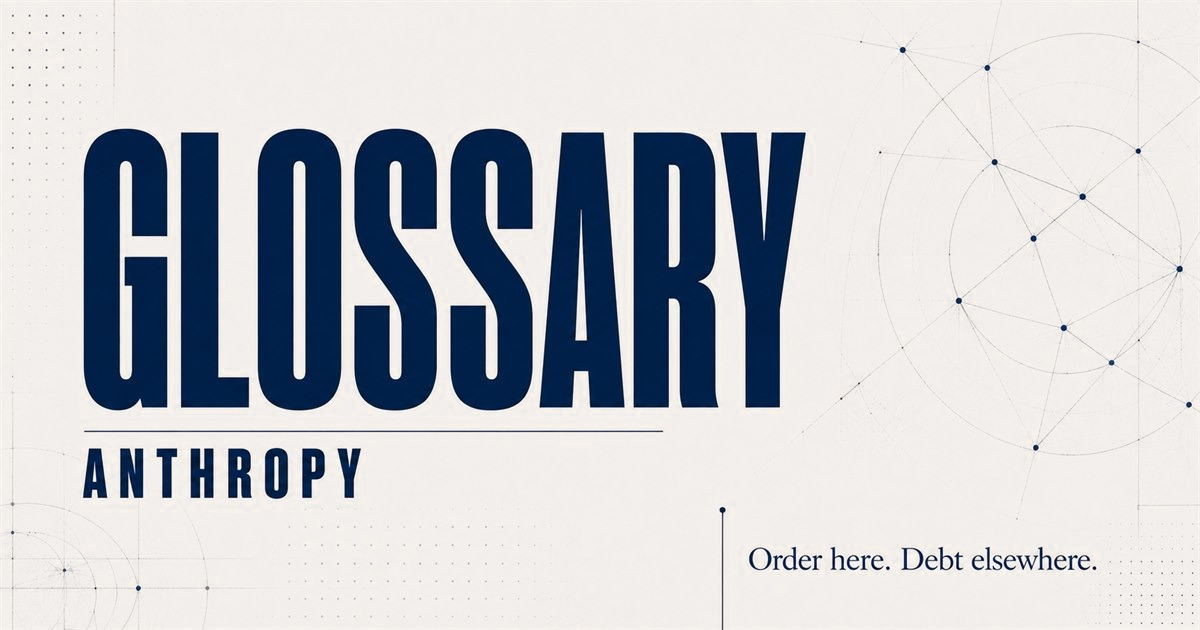
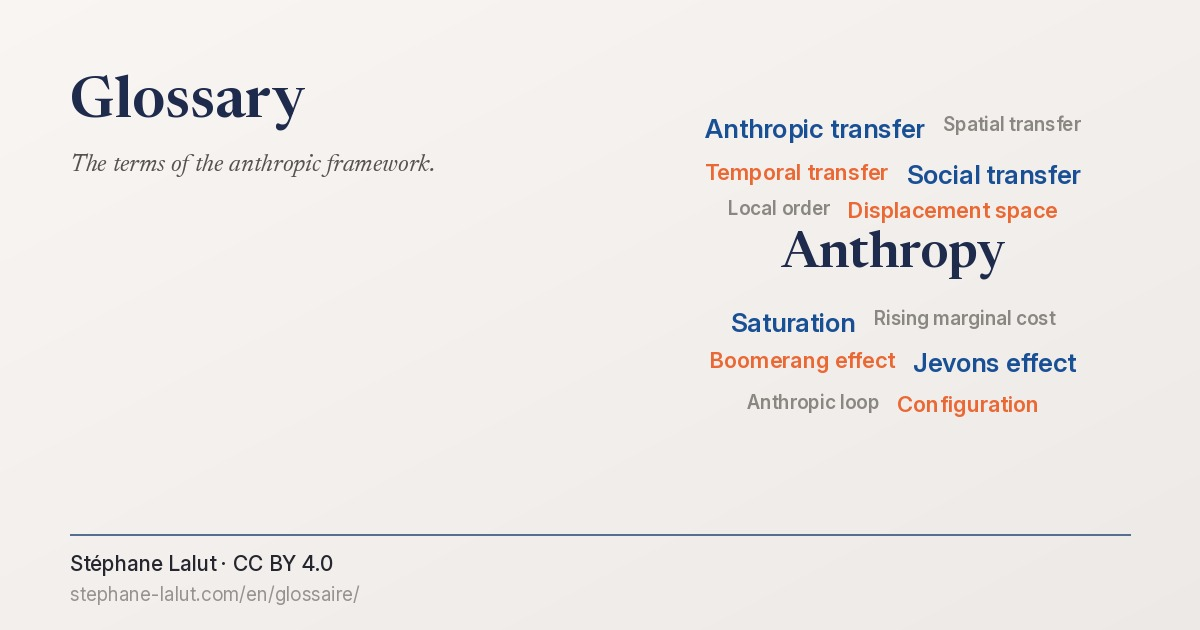
feat(ressources): une vignette pour chaque ressource, bloc réorganisé
Toute page à ressource.bloc porte une vignette (nuage de mots, jalons du
Registre, frises, tuiles), sous verrou de check-ressource-modele vu mordre.
« Guides et éclairages » se scinde en « Données et droit » et « Idées et
méthode » ; l'index passe à une seule grille. Tuiles de Publications +20 %,
couvertures de l'accueil -20 %.

Contrôles à 0 ; 1 064 vues de 320 à 2 560 px sans débordement.

diff --git a/layouts/ressources/list.html b/layouts/ressources/list.html
@@ -65,6 +65,7 @@
   {{- $mots = index $mots (cond $isEn "en" "fr") -}}
   {{ range $blocs }}
     {{- $id := .id -}}
+    {{- $bloc := . -}}
     {{- $items := slice -}}
     {{- range $entrees }}{{ if eq .r.bloc $id }}{{ $items = $items | append . }}{{ end }}{{ end -}}
     {{- if not $items }}{{ warnf "ressources : le bloc %q de %s est vide" $id $.File.Path }}{{ end -}}
@@ -172,7 +173,7 @@
       {{- range $encarts }}{{ partial "ressource-encart.html" (dict "page" .page "r" .r "isEn" $isEn) }}{{ end }}
       {{- with $dossier }}
         {{- $n := len . -}}{{- $mot := cond (lt $n (len $mots)) (index $mots $n) (string $n) -}}
-        {{- if $autres }}<p class="ressources-index__sous">{{ i18n "ressources_dossier" (dict "Count" $n "N" $mot) }}</p>{{ end }}
+        {{- if and $autres $bloc.dossier }}<p class="ressources-index__sous">{{ i18n "ressources_dossier" (dict "Count" $n "N" $mot) }}</p>{{ end }}
         <ul class="ressources-index__liste ressources-index__liste--dossier">
           {{- range . }}{{ partial "ressource-entree.html" (dict "page" .page "r" .r "fr" .fr "vignette" true) }}{{ end }}
         </ul>
@@ -185,20 +186,10 @@
       {{- end }}
       {{- with $autres }}
         {{- $n := len . -}}{{- $mot := cond (lt $n (len $mots)) (index $mots $n) (string $n) -}}
-        {{- if $dossier }}<p class="ressources-index__sous">{{ i18n "ressources_debat" (dict "Count" $n "N" ($mot | strings.FirstUpper)) }}</p>{{ end }}
-        {{- /* Une entrée dont la vignette existe (partials/ressource-entree.html) la porte ; les autres restent en liste. */ -}}
-        {{- $avec := slice -}}{{- $sans := slice -}}
-        {{- range . }}{{ $v := replace (.page.Params.og_image | default "") "og-" "vig-" 1 }}{{ if and $v (ne $v .page.Params.og_image) (fileExists (printf "static/%s" $v)) }}{{ $avec = $avec | append . }}{{ else }}{{ $sans = $sans | append . }}{{ end }}{{ end -}}
-        {{- with $avec }}
+        {{- if and $dossier $bloc.dossier }}<p class="ressources-index__sous">{{ i18n "ressources_debat" (dict "Count" $n "N" ($mot | strings.FirstUpper)) }}</p>{{ end }}
         <ul class="ressources-index__liste ressources-index__liste--dossier">
           {{- range . }}{{ partial "ressource-entree.html" (dict "page" .page "r" .r "fr" .fr "vignette" true) }}{{ end }}
         </ul>
-        {{- end }}
-        {{- with $sans }}
-        <ul class="ressources-index__liste">
-          {{- range . }}{{ partial "ressource-entree.html" (dict "page" .page "r" .r "fr" .fr "vignette" false) }}{{ end }}
-        </ul>
-        {{- end }}
       {{- end }}
     </section>
   {{ end }}

diff --git a/assets/scss/_publication-card.scss b/assets/scss/_publication-card.scss
@@ -196,16 +196,16 @@
 
 // Une entrée : petite tuile de revue, méta, titre vers l'article, chapô, thèmes, « Prolonge : », DOI.
 .pub-entree {
-  display: grid; grid-template-columns: 112px minmax(0, 1fr); gap: 0.25rem 1rem;
+  display: grid; grid-template-columns: 134px minmax(0, 1fr); gap: 0.25rem 1rem;
   padding: 0.9rem 0; border-bottom: 1px solid var(--color-rule-soft);
   scroll-margin-top: 80px; // l'en-tête est collant : une ancre #<slug> (mur presse) dégage l'entrée
 }
 .pub-entree__tuile { display: block; text-decoration: none; }
 .pub-entree .pub-thumb {
-  width: 112px; min-width: 112px; height: 75px; border-radius: 6px; padding: 6px 8px; gap: 3px;
-  .pub-thumb__label { font-size: 8.5px; letter-spacing: 0.14em; }
-  .pub-thumb__name { font-size: 14px; }
-  .pub-thumb__rule { width: 22px; }
+  width: 134px; min-width: 134px; height: 90px; border-radius: 6px; padding: 7px 9px; gap: 4px;
+  .pub-thumb__label { font-size: 10px; letter-spacing: 0.14em; }
+  .pub-thumb__name { font-size: 17px; }
+  .pub-thumb__rule { width: 26px; }
 }
 .pub-entree__corps { display: grid; gap: 0.3rem; min-width: 0; }
 .pub-entree__meta { font-family: var(--font-sans); font-size: 12px; color: var(--color-text-subtle); margin: 0; }
@@ -221,8 +221,8 @@
 // « Prolonge : » et DOI : alignés sur la colonne de texte de l'entrée (ils l'étaient sur l'ancienne tuile de 160 px).
 .pub-entree .pub-card__related, .pub-entree .pub-card__doi { margin: 0; padding: 0; }
 @media (max-width: 560px) {
-  .pub-entree { grid-template-columns: 72px minmax(0, 1fr); }
-  .pub-entree .pub-thumb { width: 72px; min-width: 72px; height: 48px; padding: 3px 4px; }
+  .pub-entree { grid-template-columns: 86px minmax(0, 1fr); }
+  .pub-entree .pub-thumb { width: 86px; min-width: 86px; height: 58px; padding: 3px 4px; }
   .pub-entree .pub-thumb .pub-thumb__label { display: none; }
   .pub-entree .pub-thumb .pub-thumb__name { font-size: 10px; }
 }

diff --git a/layouts/partials/ressource-discipline.html b/layouts/partials/ressource-discipline.html
@@ -11,11 +11,7 @@
 {{- $n := len $themes -}}
 {{- /* « thème » est masculin : la table des mots de l'index est au féminin (« une page »), d'où « Un » à part (vu le 03/10). */ -}}
 {{- $mot := cond (eq $n 1) "un" (cond (lt $n (len .mots)) (index .mots $n) (string $n)) -}}
-{{- $vig := "" -}}
-{{- with $p.Params.og_image -}}
-  {{- $v := replace . "og-" "vig-" 1 -}}
-  {{- if and (ne $v .) (fileExists (printf "static/%s" $v)) }}{{ $vig = $v }}{{ end -}}
-{{- end -}}
+{{- $vig := partial "vignette-ressource.html" $p -}}
 <aside class="ressources-index__encart{{ if not $vig }} ressources-index__encart--sans-image{{ end }}">
   {{- with $vig }}<a class="ressources-index__encart-image" href="{{ $p.RelPermalink }}" tabindex="-1" aria-hidden="true"><img src="/{{ . }}" alt="" width="720" height="378" loading="lazy"></a>{{ end }}
   <div class="ressources-index__encart-corps">

diff --git a/layouts/partials/ressource-encart.html b/layouts/partials/ressource-encart.html
@@ -3,11 +3,7 @@
        bouton (`ressource.bouton`, sinon libellé par défaut). Vignette dérivée de `og_image` comme pour les cartes. */ -}}
 {{- $p := .page -}}
 {{- $r := .r -}}
-{{- $vig := "" -}}
-{{- with $p.Params.og_image -}}
-  {{- $v := replace . "og-" "vig-" 1 -}}
-  {{- if and (ne $v .) (fileExists (printf "static/%s" $v)) }}{{ $vig = $v }}{{ end -}}
-{{- end -}}
+{{- $vig := partial "vignette-ressource.html" $p -}}
 <aside class="ressources-index__encart{{ if not $vig }} ressources-index__encart--sans-image{{ end }}">
   {{- with $vig }}<a class="ressources-index__encart-image" href="{{ $p.RelPermalink }}" tabindex="-1" aria-hidden="true"><img src="/{{ . }}" alt="" width="720" height="378" loading="lazy"></a>{{ end }}
   <div class="ressources-index__encart-corps">

diff --git a/layouts/partials/ressource-entree.html b/layouts/partials/ressource-entree.html
@@ -9,12 +9,7 @@
 {{- $p := .page -}}
 {{- $r := .r -}}
 {{- $vig := "" -}}
-{{- if .vignette -}}
-  {{- with $p.Params.og_image -}}
-    {{- $v := replace . "og-" "vig-" 1 -}}
-    {{- if and (ne $v .) (fileExists (printf "static/%s" $v)) }}{{ $vig = $v }}{{ end -}}
-  {{- end -}}
-{{- end -}}
+{{- if .vignette }}{{ $vig = partial "vignette-ressource.html" $p }}{{ end -}}
 <li class="ressources-index__entree{{ with $vig }} ressources-index__entree--vignette{{ end }}">
   {{- with $vig }}<img class="ressources-index__vignette" src="/{{ . }}" alt="" width="720" height="378" loading="lazy">{{ end }}
   <div class="ressources-index__texte">

diff --git a/assets/scss/_home.scss b/assets/scss/_home.scss
@@ -329,6 +329,7 @@ main .awp-registre { list-style: none; padding: 0 !important; margin: 0 !importa
 }
 .home-livre { display: grid; gap: 0.4rem; align-content: start; min-width: 0; }
 .home-livre__couv { display: block; text-decoration: none; }
+@media (min-width: 761px) { .home-livre__cover-wrap { width: 80%; } } // couvertures réduites de 20 % (auteur, 02/11/2026)
 .home-livre__cover-wrap { display: block; }
 .home-livre__cover {
   display: block; width: 100%; height: auto; aspect-ratio: 2 / 3; object-fit: cover;

diff --git a/layouts/partials/vignette-ressource.html b/layouts/partials/vignette-ressource.html
@@ -1,0 +1,8 @@
+{{- /* vignette-ressource.html : chemin de la vignette d'index d'une page, dérivé de `og_image` (og-X -> vig-X), ou "".
+       Organe unique ; scripts/check-ressource-modele.py exige une vignette de toute page qui déclare `ressource.bloc`. */ -}}
+{{- $vig := "" -}}
+{{- with .Params.og_image -}}
+  {{- $v := replace . "og-" "vig-" 1 -}}
+  {{- if and (ne $v .) (fileExists (printf "static/%s" $v)) }}{{ $vig = $v }}{{ end -}}
+{{- end -}}
+{{- return $vig -}}

diff --git a/assets/scss/_ressources-index.scss b/assets/scss/_ressources-index.scss
@@ -164,3 +164,6 @@ main .ressources-index__liste--dossier {
   border-top: 1px solid var(--color-rule-soft);
   font-size: .95rem;
 }
+
+// Trois lignes au plus dans les cartes : la grille reste lisible ; le texte complet reste dans le HTML.
+.ressources-index__entree .ressources-index__desc { display: -webkit-box; -webkit-box-orient: vertical; -webkit-line-clamp: 3; overflow: hidden; }

diff --git a/scripts/og_ressources_texte.py b/scripts/og_ressources_texte.py
@@ -1,0 +1,168 @@
+#!/usr/bin/env python3
+"""Cartes de partage et vignettes des ressources sans figure de données (02/11/2026, demande de l'auteur).
+
+Le dessin n'est pas forcément un graphe : nuage de mots du glossaire, frise, tuiles. Il ne montre que ce que la page dit :
+termes lus dans le front matter, jalons comptés dans le jeu du Registre, libellés relus dans la page (og_notions.verifie).
+Écrit : static/images/{og,vig}-texte-<nom>{,-en}.jpg, et la carte du glossaire sous son nom d'origine.
+"""
+from __future__ import annotations
+
+import json
+import re
+import sys
+from pathlib import Path
+
+sys.path.insert(0, str(Path(__file__).resolve().parent))
+import og_dossier_dette as og  # noqa: E402
+import og_notions as n  # noqa: E402
+
+SIGNE = "Stéphane Lalut · CC BY 4.0"
+
+
+def nuage(termes: list[str], coeur: str):
+    """Nuage déterministe : le cœur au centre, les termes par rangées autour, sans échelle de fréquence."""
+    def dessin(d) -> None:
+        tailles, cols = (26, 19, 22), (og.C1, og.SEC, og.C2)
+        cy = (n.HAUT + n.BAS) / 2
+        fc = og.font("newsreader", 50, 600)
+        d.text(((n.X0 + n.X1 - d.textlength(coeur, font=fc)) / 2, cy - 32), coeur, font=fc, fill=og.NAVY)
+        rangs = [cy - 150, cy - 104, cy - 66, cy + 44, cy + 84, cy + 128]
+        i = 0
+        for y in rangs:
+            x = float(n.X0)
+            ligne = []
+            while i < len(termes):
+                f = og.font("inter", tailles[i % 3], 600)
+                w = d.textlength(termes[i], font=f)
+                if x + w > n.X1:
+                    break
+                ligne.append((termes[i], f, w, cols[i % 3]))
+                x += w + 18
+                i += 1
+            libre = (n.X1 - (x - 18)) / 2
+            x = n.X0 + libre
+            for t, f, w, c in ligne:
+                d.text((x, y), t, font=f, fill=c)
+                x += w + 18
+    return dessin
+
+
+def frise(points: list[tuple[str, str]]):
+    """Jalons également espacés : frise de lecture, sans échelle de temps."""
+    def dessin(d) -> None:
+        y = (n.HAUT + n.BAS) / 2 - 10
+        d.line([n.X0 + 8, y, n.X1 - 8, y], fill=og.C1, width=4)
+        pas = (n.X1 - n.X0 - 80) / (len(points) - 1)
+        fd, fl = og.font("inter", 20, 600), og.font("inter", 18, 600)
+        for i, (date, nom) in enumerate(points):
+            x = n.X0 + 40 + i * pas
+            d.ellipse([x - 10, y - 10, x + 10, y + 10], fill=og.C2 if i == len(points) - 1 else og.C1)
+            if date:
+                d.text((x - d.textlength(date, font=fd) / 2, y - 48), date, font=fd, fill=og.GREY)
+            mots = nom.split(" ")
+            for k, m in enumerate(mots[:2] if len(mots) > 1 and d.textlength(nom, font=fl) > pas else [nom]):
+                d.text((x - d.textlength(m, font=fl) / 2, y + 24 + k * 24), m, font=fl, fill=og.INK)
+    return dessin
+
+
+def tuiles(noms: list[str], par: int):
+    def dessin(d) -> None:
+        lignes = [noms[i:i + par] for i in range(0, len(noms), par)]
+        g, h = 12, (n.BAS - n.HAUT - 12 * (len(lignes) - 1)) / len(lignes)
+        h = min(h, 92)
+        y = (n.HAUT + n.BAS - h * len(lignes) - g * (len(lignes) - 1)) / 2
+        for i, l in enumerate(lignes):
+            n.rangee(d, y + i * (h + g), y + i * (h + g) + h, l, og.C1 if i == 0 else og.SEC, False)
+    return dessin
+
+
+def registre(reg: dict, mot: str):
+    """Sept barres : nombre de jalons par âge, compté dans le jeu publié."""
+    nb = [sum(1 for j in reg["jalons"] if j["age"] == a["num"]) for a in reg["ages"]]
+    if sum(nb) != len(reg["jalons"]):
+        og.fail("registre : jalons hors des sept ages")
+
+    def dessin(d) -> None:
+        fl, fv = og.font("inter", 18, 600), og.font("inter", 18, 500)
+        pas = (n.BAS - n.HAUT) / len(nb)
+        for i, v in enumerate(nb):
+            y = n.HAUT + i * pas
+            d.text((n.X0, y + 8), "%s %d" % (mot, i + 1), font=fl, fill=og.INK)
+            xa, xb = n.X0 + 84, n.X0 + 84 + (n.X1 - n.X0 - 134) * v / max(nb)
+            d.rectangle([xa, y + 8, xb, y + pas - 14], fill=og.C2 if i == len(nb) - 1 else og.C1)
+            d.text((xb + 8, y + 8), str(v), font=fv, fill=og.GREY)
+    return dessin
+
+
+def termes_glossaire(f: Path) -> tuple[str, list[str]]:
+    fm = f.read_text(encoding="utf-8").split("---")[1]
+    coeur = re.search(r'coeur:.*?\bt: "([^"]+)"', fm).group(1)
+    t = re.findall(r'-\s*\{id: "[^"]+", t: "([^"]+)"', fm)
+    if len(t) < 12:
+        og.fail("glossaire : carte du vocabulaire illisible (%d termes)" % len(t))
+    return coeur, t
+
+
+def cartes() -> list:
+    R = og.ROOT
+    gf, ge = termes_glossaire(R / "content/glossaire/_index.md"), termes_glossaire(R / "content/glossaire/_index.en.md")
+    rf = json.loads((R / "data/registre_couts_deportes.json").read_text(encoding="utf-8"))
+    re_ = json.loads((R / "data/registre_couts_deportes_en.json").read_text(encoding="utf-8"))
+    nj = len(rf["jalons"])
+    th_f = ["Santé", "Salaires", "Prix", "École", "Emploi", "Sécurité", "Dette", "Immigration", "Climat"]
+    th_e = ["Health", "Wages", "Prices", "Schools", "Jobs", "Security", "Debt", "Immigration", "Climate"]
+    return [
+        ("glossaire", False, "og-glossaire.jpg", ["Glossaire"], "Les termes du cadre anthropique.",
+         "glossaire", nuage(gf[1], gf[0]), []),
+        ("glossaire", True, "og-glossaire.en.jpg", ["Glossary"], "The terms of the anthropic framework.",
+         "en/glossaire", nuage(ge[1], ge[0]), []),
+        ("registre-des-couts-deportes", False, "og-texte-registre.jpg", ["Le Registre des", "coûts déportés"],
+         "%d jalons en sept âges, par âge." % nj, "registre-des-couts-deportes", registre(rf, "Âge"), []),
+        ("registre-des-couts-deportes", True, "og-texte-registre-en.jpg", ["The Register of", "Offloaded Costs"],
+         "%d milestones in seven ages, by age." % nj, "en/register-of-offloaded-costs", registre(re_, "Age"), []),
+        ("que-peut-faire-un-president-promesse-par-promesse", False, "og-texte-promesses.jpg", ["Neuf promesses", "de campagne"],
+         "Ce qu’un président peut vraiment faire.", "que-peut-faire-un-president-promesse-par-promesse",
+         tuiles(th_f, 3), th_f),
+        ("que-peut-faire-un-president-promesse-par-promesse", True, "og-texte-promesses-en.jpg", ["Nine campaign", "promises"],
+         "What a president can really do.", "en/what-can-a-president-do-promise-by-promise", tuiles(th_e, 3), th_e),
+        ("chercheur-independant", False, "og-texte-chercheur.jpg", ["Chercheur", "indépendant"],
+         "Publier des travaux citables hors institution.", "chercheur-independant",
+         n.schema([(["ORCID", "Zenodo", "SSRN", "HAL"], og.SEC, False), (["Travaux citables"], og.C1, True)]),
+         ["ORCID", "Zenodo", "SSRN", "HAL", "citables"]),
+        ("chercheur-independant", True, "og-texte-chercheur-en.jpg", ["Independent", "researcher"],
+         "Publishing citable work outside an institution.", "en/independent-researcher",
+         n.schema([(["ORCID", "Zenodo", "SSRN", "HAL"], og.SEC, False), (["Citable work"], og.C1, True)]),
+         ["ORCID", "Zenodo", "SSRN", "HAL", "citable"]),
+        ("citations-celebres-verifiees", False, "og-texte-citations.jpg", ["Citations célèbres", "vérifiées"],
+         "Ce qu’ils ont vraiment écrit, relu au texte.", "citations-celebres-verifiees",
+         tuiles(["Hugo", "Voltaire", "Molière", "La Fontaine", "Wilde"], 3), ["Hugo", "Voltaire", "Molière", "La Fontaine", "Wilde"]),
+        ("combien-de-temps-une-erreur-reste-inscrite", False, "og-texte-erreur.jpg", ["Une erreur inscrite,", "pour combien de temps ?"],
+         "Ce qu\u2019il faut vérifier, durée par durée.", "combien-de-temps-une-erreur-reste-inscrite",
+         tuiles(["Banque de France", "Casier", "Points", "Malus", "Maladie"], 3), ["Banque de France", "casier", "points", "malus", "maladie"]),
+        ("comment-lecriture-a-transforme-la-pensee", False, "og-texte-ecriture.jpg", ["Comment l’écriture", "a transformé la pensée"],
+         "De la voix à l’intelligence artificielle.", "comment-lecriture-a-transforme-la-pensee",
+         frise([("", "Voix"), ("", "Écriture"), ("", "Imprimerie"), ("", "Intelligence artificielle")]),
+         ["voix", "écriture", "imprimerie", "intelligence artificielle"]),
+        ("comment-lecriture-a-transforme-la-pensee", True, "og-texte-ecriture-en.jpg", ["How writing", "transformed thought"],
+         "From the voice to artificial intelligence.", "en/how-writing-transformed-thought",
+         frise([("", "Voice"), ("", "Writing"), ("", "Printing press"), ("", "Artificial intelligence")]),
+         ["voice", "writing", "printing press", "artificial intelligence"]),
+        ("le-pouvoir-de-machiavel-a-foucault", False, "og-texte-pouvoir.jpg", ["À quoi tient", "l’obéissance ?"],
+         "Le pouvoir, de Machiavel à Foucault et au-delà.", "le-pouvoir-de-machiavel-a-foucault",
+         frise([("1513", "Machiavel"), ("1651", "Hobbes"), ("1789", "Légitimité"), ("1975", "Foucault"), ("1979", "Thatcher")]),
+         ["1513", "Machiavel", "1651", "Hobbes", "1789", "légitimité", "1975", "Foucault", "1979", "Thatcher"]),
+        ("tabula-rasa-locke", False, "og-texte-tabula.jpg", ["La tabula rasa"],
+         "Locke a-t-il vraiment parlé d’une page blanche ?", "tabula-rasa-locke",
+         frise([("", "Tablette"), ("", "Locke"), ("", "Leibniz")]), ["tablette", "Locke", "Leibniz"]),
+    ]
+
+
+def main() -> int:
+    for page, en, nom, titre, accroche, url, dessin, libelles in cartes():
+        n.verifie(page, en, libelles)
+        og.carte(nom, titre, accroche, SIGNE, "stephane-lalut.com/%s/" % url, dessin, [])
+    return 0
+
+
+if __name__ == "__main__":
+    sys.exit(main())

diff --git a/scripts/check-ressource-modele.py b/scripts/check-ressource-modele.py
@@ -149,6 +149,25 @@ def jeux(fm: str) -> list[str]:
     return [j.strip().strip("'\"") for j in m.group(1).split(",") if j.strip()] if m else []
 
 
+def vignettes_index() -> int:
+    """Toute page qui déclare ressource.bloc porte une vignette d'index (auteur, 02/11/2026)."""
+    vues, fautes = 0, []
+    for p in sorted(CONTENT.rglob("*.md")):
+        fm = front_matter(p.read_text(encoding="utf-8"))
+        r = bloc_ressource(fm) or {}
+        if not r.get("bloc") or re.search(r"^draft:\s*true\s*$", fm, re.M):
+            continue
+        vues += 1
+        og = re.search(r"^og_image:\s*[\"']?([^\"'\s]+)", fm, re.M)
+        vig = og.group(1).replace("og-", "vig-", 1) if og else ""
+        if not vig or vig == og.group(1) or not (STATIC / vig).is_file():
+            fautes.append("%s : vignette d'index absente (%s)" % (p.relative_to(ROOT).as_posix(), vig or "pas de og_image"))
+    for x in fautes:
+        print("  " + x)
+    print("Vignettes d'index : %d/%d ressource(s) pourvue(s)." % (vues - len(fautes), vues))
+    return 1 if fautes else 0
+
+
 def main() -> int:
     vues, conformes, brouillons, fautes = 0, 0, 0, []
     for p in sorted(CONTENT.rglob("*.md")):
@@ -212,4 +231,4 @@ def main() -> int:
 
 
 if __name__ == "__main__":
-    sys.exit(main())
+    sys.exit(main() or vignettes_index())

diff --git a/CLAUDE.md b/CLAUDE.md
@@ -8,7 +8,7 @@ Static site for **stephane-lalut.com** (Stéphane Lalut, économiste). Hugo Exte
 
 Section `awp` : quatre sorties par working paper — `single.html` plus **BibTeX / RIS / EndNote**, déclarées en `outputFormats` dans `hugo.toml`. L'URL `/awp/` redirige vers `/serie-awp/` par `aliases` ; les pages individuelles restent en `/awp/awp-01/`.
 
-Section `publications` : cartes via `partials/publication-card.html`, gabarit unique **160×107** que réemploie le mur presse de `/a-propos/` (`partials/presse-wall.html`) — une seule règle y sert donc les deux pages.
+Section `publications` : cartes via `partials/publication-card.html`, gabarit **160×107** (134×90 sur `/publications/`, auteur, 02/11/2026) que réemploie le mur presse de `/a-propos/` (`partials/presse-wall.html`) — une seule règle y sert donc les deux pages.
 
 ⚠ `assets/js/hero-flowfield.js` existe dans le dépôt mais n'est plus chargé (canvas supprimé lors du redesign home).
 
@@ -150,6 +150,12 @@ déploiement ; toute page dont le front matter déclare `donnees:`) : carte de p
 « Le résultat en une phrase » (`div.resultat-phrase`) ; bloc commun « Réutiliser cette page » ; balisage `Dataset`
 (bloc `dataset:` du front matter, gabarit `schema-dataset-page.html`) ; JSON **et** CSV du jeu dans `static/` ;
 appel au livre sans note Amazon (`avis="non"`) ; **vignette d'index** `static/images/vig-X.jpg` pour `og_image: images/og-X.jpg`.
+
+**Toute ressource porte une vignette d'index** (auteur, 02/11/2026) : pas forcément un graphe (nuage de mots, frise, tuiles,
+`scripts/og_notions.py`, `scripts/og_ressources_texte.py`), mais rien que la page ne dise. Organe unique
+`partials/vignette-ressource.html` ; verrou `vignettes_index()` de `check-ressource-modele.py` pour toute page à `ressource.bloc`.
+Cette règle prime sur la phrase « cartes crème » ci-dessous. Garanties communes, jamais un plan unique : vignette, titre, chapô,
+date, appartenance, sommaire dès 5 sections, sources nommées, retour à l'index. FAQ, livre, révisions restent conditionnels.
 
 **Présentation dans l'index `/ressources/`** (auteur, 01/10/2026 ; vaut pour toutes les ressources, y compris celles à
 créer) : dans un bloc, les pages qui déclarent `donnees:` forment « le dossier » — grande grille, vignette sur fond

diff --git a/content/comment-lecriture-a-transforme-la-pensee/_index.md b/content/comment-lecriture-a-transforme-la-pensee/_index.md
@@ -1,5 +1,7 @@
 ---
 title: "Comment l'écriture a-t-elle transformé la pensée ?"
+og_image: "images/og-texte-ecriture.jpg"
+og_image_alt: "Carte de partage : « Comment l’écriture a transformé la pensée »"
 description: "Une réponse juste obtenue avec une IA n'est pas encore un savoir. Le Phèdre de Platon, confronté aux six critères proposés en 2026 pour juger la dépendance à l'IA, montre ce qui continue et ce qui change ; l'histoire de l'écrit montre qu'une technique ouvre des possibilités sans décider de ce qu'on apprend."
 chapo: "Un élève obtient d'une intelligence artificielle une réponse juste. Sait-il pour autant pourquoi elle est juste ? La question est plus ancienne que l'IA : c'est celle que le Phèdre de Platon pose à l'écriture. Confrontée à six critères qu'une revue de recherche propose en 2026 pour juger la dépendance à l'IA, elle montre deux continuités nettes, des déplacements et un renversement. Et l'histoire de l'écrit, des premières tablettes à l'imprimerie, montre qu'une technique ouvre des possibilités sans décider de ce que l'on apprend."
 date: 2026-07-25
@@ -23,7 +25,7 @@ ressource:  # index /ressources/ (layouts/ressources/list.html)
   type: ["explicatif-causal"]  # protocole de la page (CLAUDE.md du site, « Production des ressources »)
   conception: "docs/conception/comment-lecriture-a-transforme-la-pensee.md"  # fiche de conception (regle 12)
   refonte: "2026-11-01"  # relecture attestée du jour (instantané docs/relectures/)
-  bloc: "guides"
+  bloc: "reperes"
   livres: ["lodyssee-des-idees"]  # livre que la page prolonge (fiche du livre, « Ressources et données du livre »)
   rang: 10
   nature: "Éclairage — histoire des idées"
